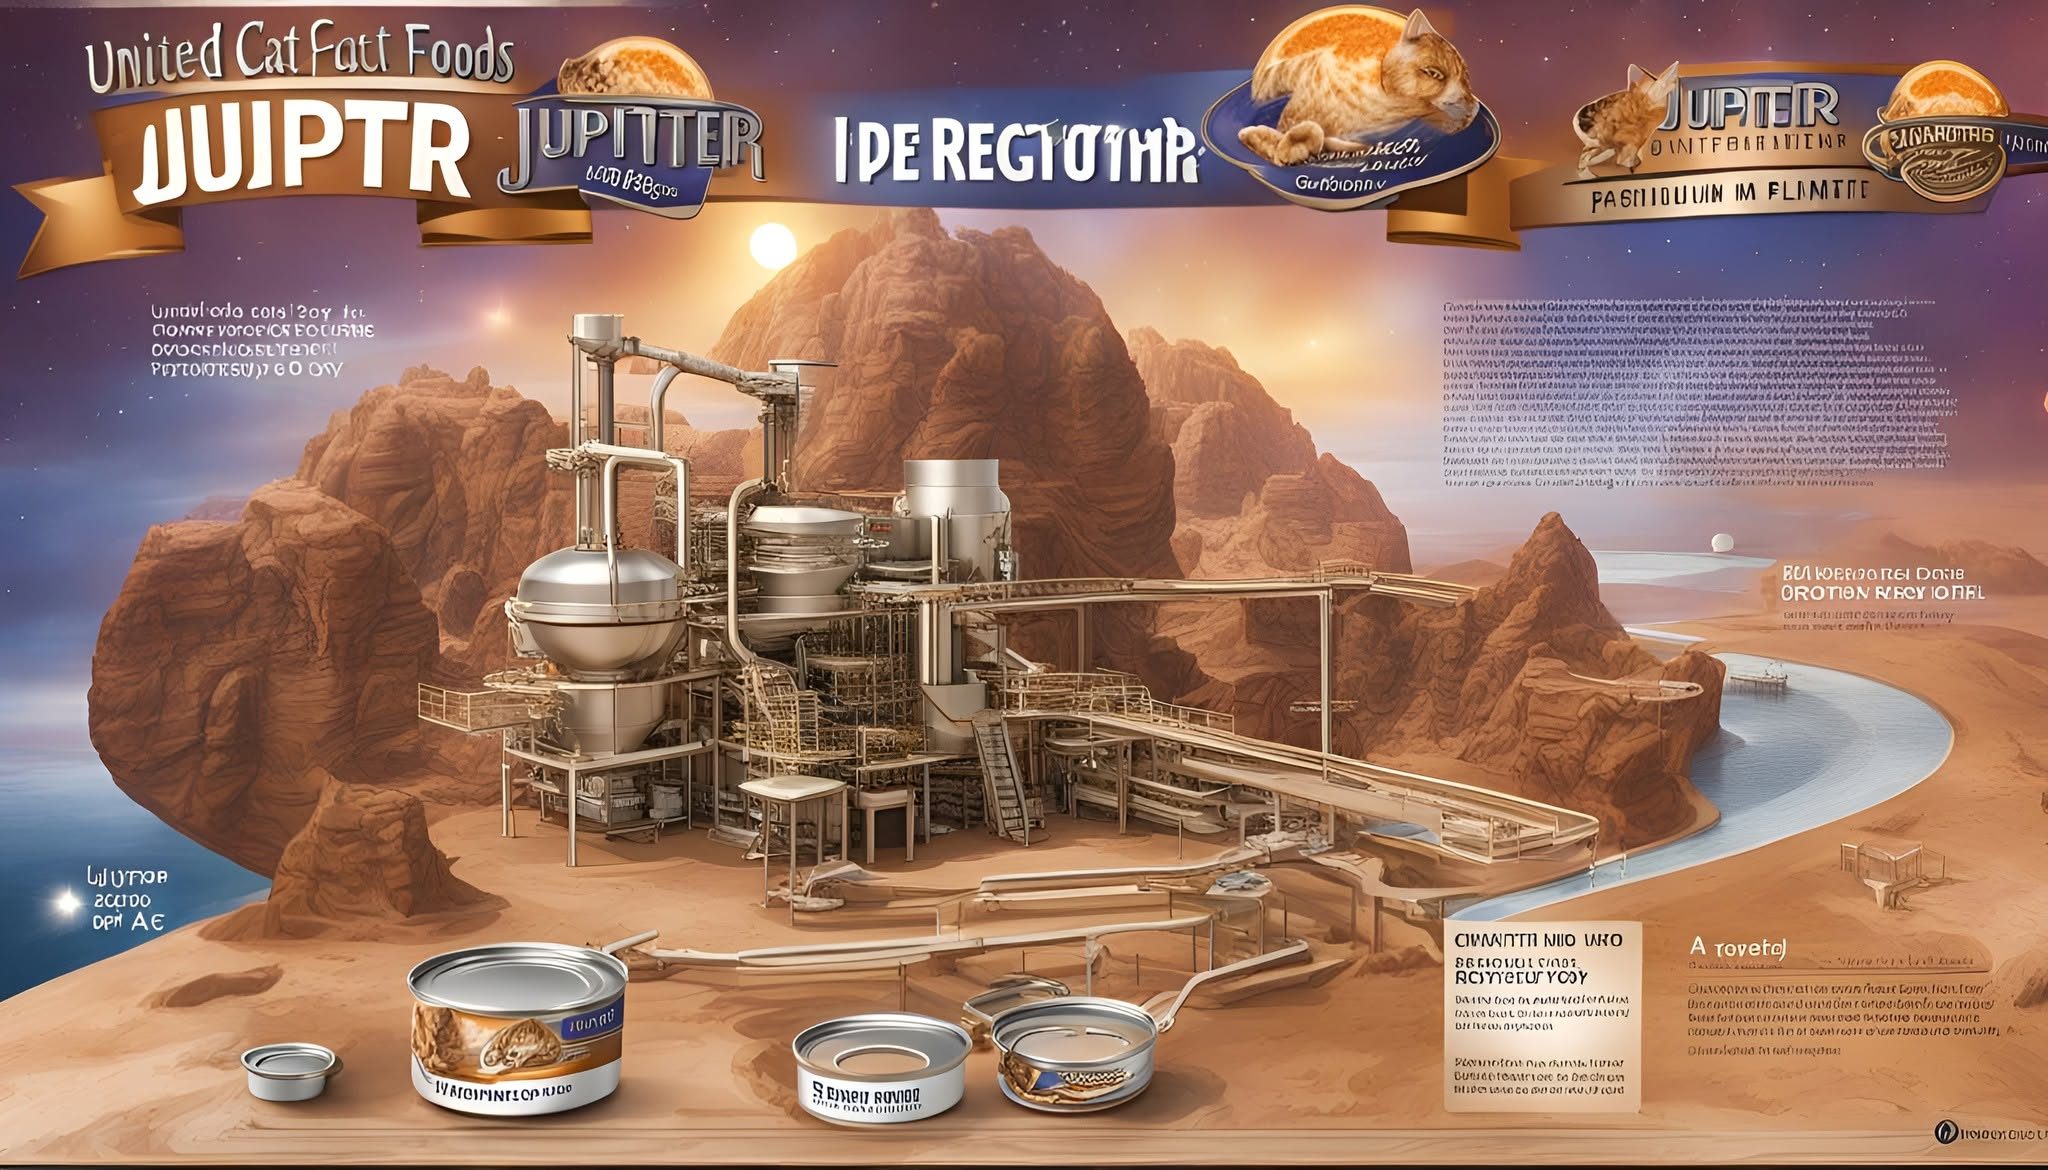
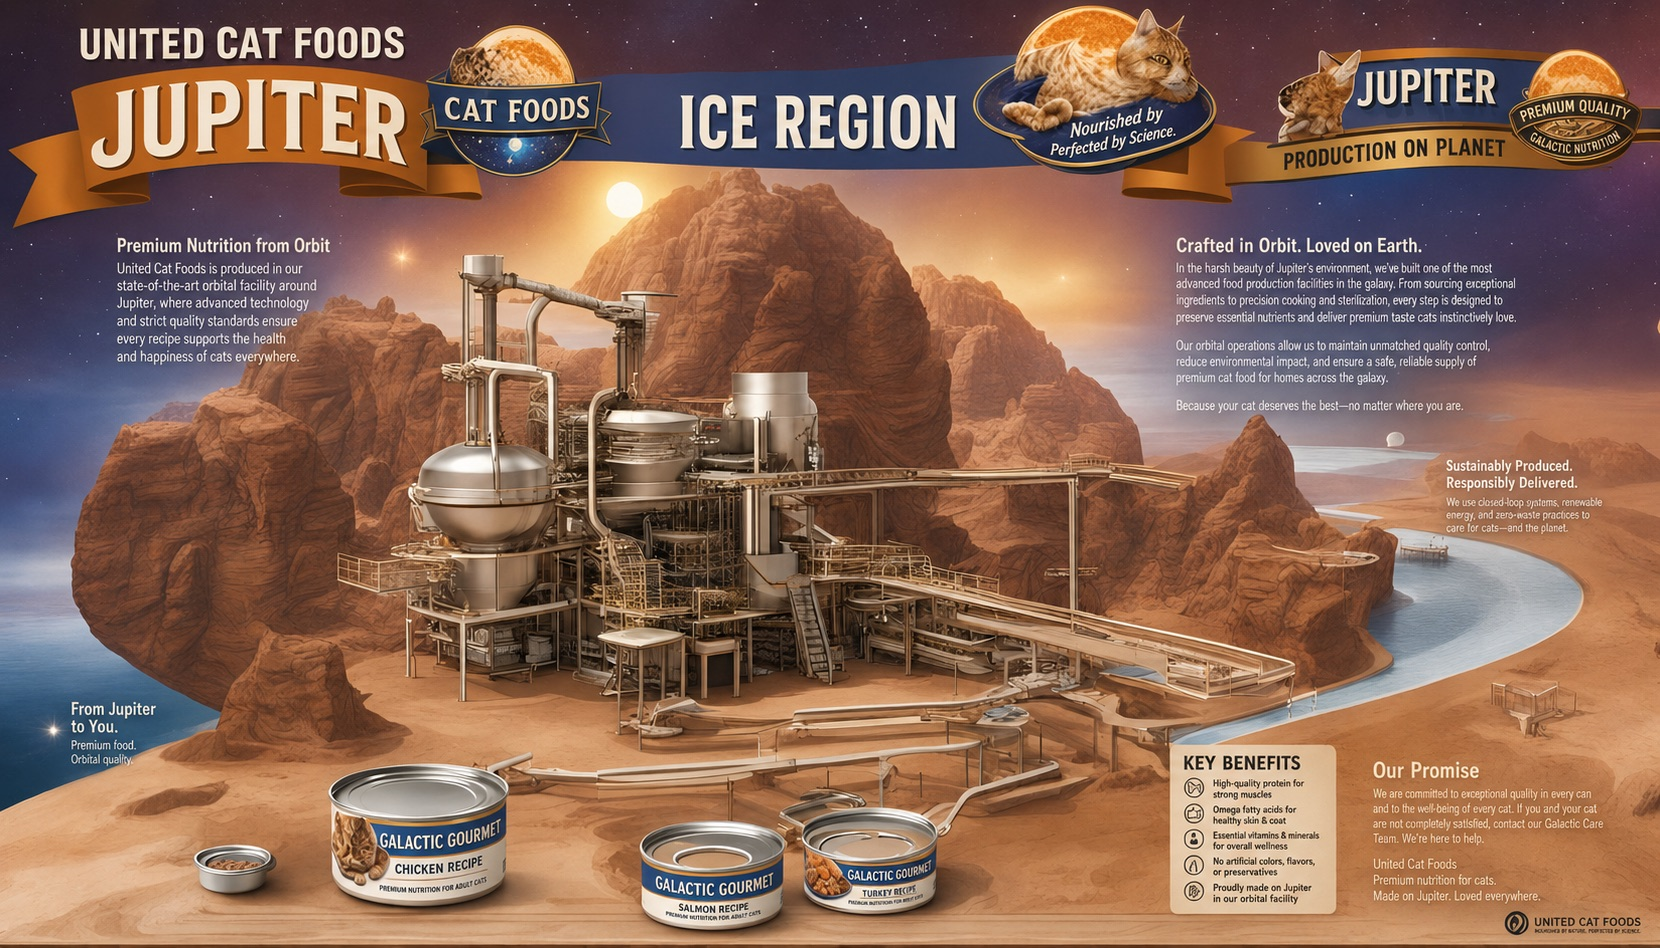
Fix garbled text in the two Jupiter product plates
Replaces the Catgrish-garbled promotional plates with corrected
versions (edited via ChatGPT image editing): banners now read United
Cat Foods, Jupiter, Desert Region / Ice Region, and Production on
Planet, with legible marketing copy and Galactic Gourmet can labels.
Both duplicate ice-region files updated; products page caption now
notes the reissued print standard.

diff --git a/unitedcatfoods/products.html b/unitedcatfoods/products.html
@@ -54,7 +54,7 @@
       </div>
       <figure class="reveal" style="margin:0; border:1px solid var(--line); box-shadow:var(--shadow); background:var(--panel-strong);">
         <img src="wiki/art/ucf_226119070541495.jpg" alt="Galactic Gourmet canned goods with refinery infrastructure behind" style="width:100%; display:block; border-bottom:1px solid var(--line);" />
-        <figcaption style="padding:10px 16px; font-size:.6rem; text-transform:uppercase; letter-spacing:.14em; color:var(--muted);">Galactic Gourmet, Jupiter production run · label text appears in Catgrish</figcaption>
+        <figcaption style="padding:10px 16px; font-size:.6rem; text-transform:uppercase; letter-spacing:.14em; color:var(--muted);">Galactic Gourmet, Jupiter Ice Region production run · reissued plate, corrected print standard</figcaption>
       </figure>
     </section>
 
